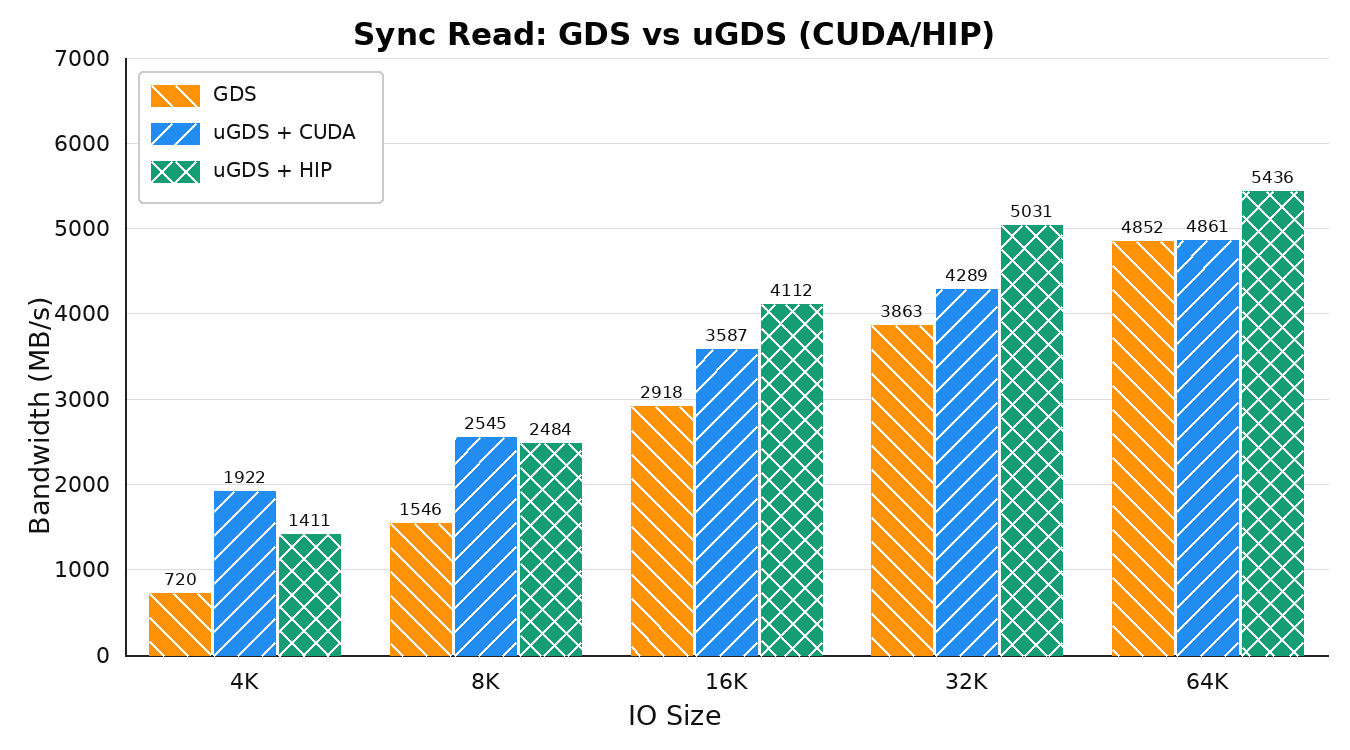
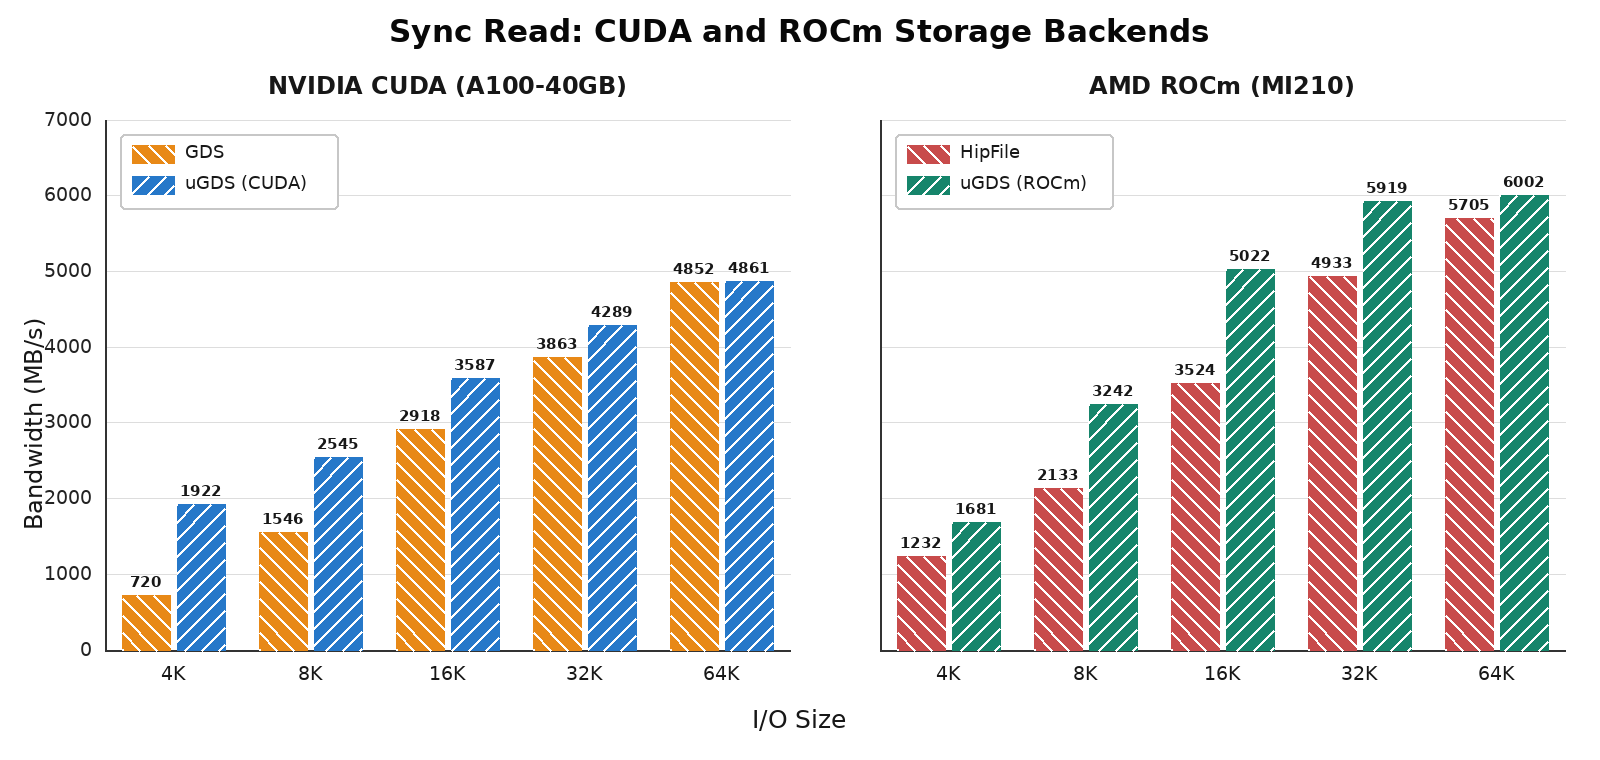
[test] update README Signed-off-by: silence-breaker <weij63@mail2.sysu.edu.cn>

diff --git a/README.md b/README.md
@@ -53,14 +53,22 @@ No kernel NVMe driver, no page cache — the CPU only touches doorbell registers
 ## Performance
 
 16-thread, 1 GiB sequential bandwidth on Samsung 990 PRO (PCIe Gen4 x4).
-The GDS and uGDS + CUDA baselines use an A100-40GB; uGDS + HIP was measured
-on an AMD Instinct MI210 with ROCm 7.1.1 using the same benchmark parameters.
+Each panel compares the native direct-storage stack with uGDS on the same GPU
+platform: NVIDIA GDS vs uGDS on an A100-40GB, and AMD HipFile vs uGDS on an
+AMD Instinct MI210. Both AMD series use ROCm 7.2.4. AMD read points are the
+mean of three runs; write points are the mean of five runs, except uGDS 8K,
+which is the mean of ten runs. All four series use the same benchmark
+parameters.
 
-![Sync Read: GDS vs uGDS with CUDA and HIP](assets/ugds_vs_gds_16t_read.png)
+![Sync Read: GDS vs uGDS on CUDA and HipFile vs uGDS on ROCm](assets/ugds_vs_gds_16t_read.png)
 
-![Sequential Write: GDS vs uGDS with CUDA and HIP](assets/ugds_vs_gds_16t_write.png)
+![Sequential Write: GDS vs uGDS on CUDA and HipFile vs uGDS on ROCm](assets/ugds_vs_gds_16t_write.png)
 
-Both GPU backends bypass the kernel NVMe driver. 
+The CUDA and ROCm results are shown in separate panels so comparisons remain
+within a single GPU platform. HipFile was run with compatibility mode disabled,
+which forces its direct-storage fast path instead of CPU fallback I/O. During
+the controlled write rerun, the SSD link remained PCIe 4.0 x4 and the MI210
+path remained PCIe 4.0 x16 with both the NVMe and uGDS drivers.
 
 ## Quick Start
 
